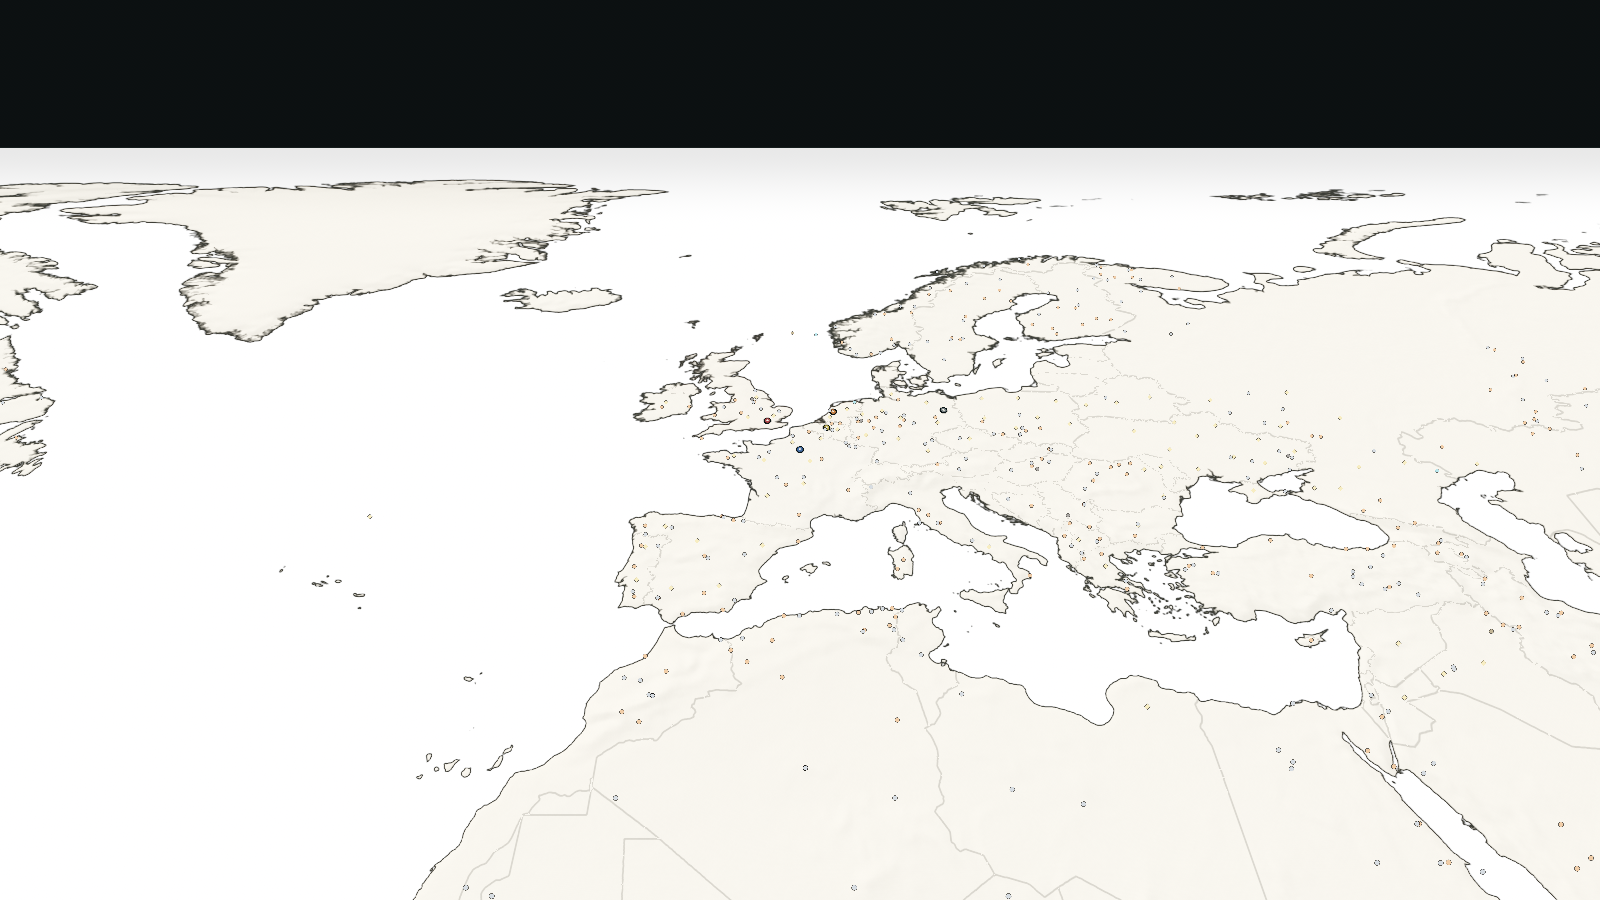
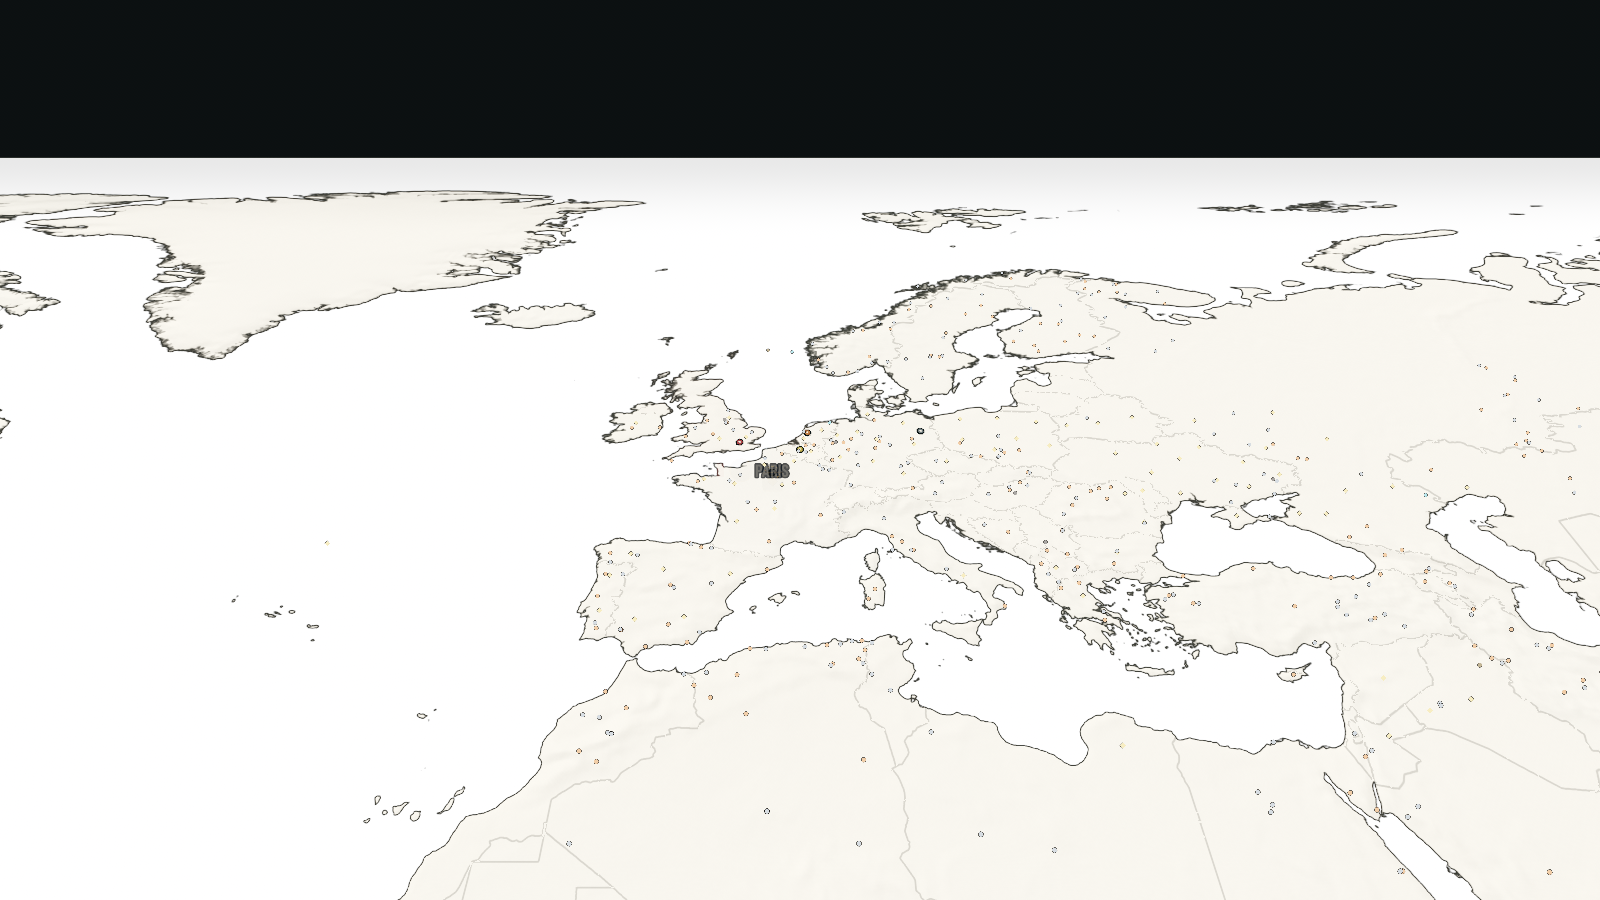
feat(map): recursos por proximidade e faixa legivel sob a cidade
A cidade passa a contar os depositos num raio de 1,5 u (~60 km) do centro (GeographyService.deposits_near), em vez do centroide do territorio: o cobre perto de Bruxelas agora entra. A faixa sob o nome ganhou pilula escura, icones maiores e circulo do raio no chao; clicar na cidade no modo recursos abre a aba de recursos. Legenda explica a faixa atualizada.

diff --git a/tools/build_resource_map.py b/tools/build_resource_map.py
@@ -97,4 +97,12 @@ white_icon("political.png", "map_mode_political.png")
 white_icon("resources.png", "map_mode_resources.png")
 marker(64, "dot").save(os.path.join(PLACES, "resource_dot.png"))
 marker(64, "diamond").save(os.path.join(PLACES, "resource_wheat.png"))
+
+# Pílula escura atrás da faixa de recursos sob o nome da cidade.
+pill = Image.new("RGBA", (128, 32), (0, 0, 0, 0))
+pd = ImageDraw.Draw(pill)
+pd.rounded_rectangle([1, 1, 127, 31], radius=14, fill=(10, 18, 18, 200),
+                     outline=(201, 162, 74, 110), width=2)
+pill.save(os.path.join(PLACES, "resource_pill.png"))
+
 build_points()

diff --git a/GAME_STATE.md b/GAME_STATE.md
@@ -82,7 +82,7 @@ Fontes: `DESIGN.md` (design system) e `docs/` (evidências). Este documento abso
      - **Modo "political" (atlas):** uma passada opaca em `atlas_political.gdshader` sobre **campos de distância com sinal** gerados de vetores Natural Earth 10m por `tools/build_atlas_layers.py` (`map/map_data/atlas/`): `region_sdf/region_color` (Europa lon −25..45, lat 33..72, 4096 px, ~1,9 km/texel) + `world_sdf` (mundo, 8192 px, ~4,9 km/texel) + `world_color` (4096 px, cor chapada por país). Canais SDF: R costa, G fronteira de país, B divisa admin-1 (1.862 províncias reais na região). Linhas em pixels de tela medidas ao longo do gradiente (espessura igual em qualquer orientação), anti-aliasing, salto do eixo medial descartado pelo gradiente. Terra = cor da nação × luminância do papel (`paper_flat.png`) × grão de papel; faixa escura junto às fronteiras; mar com faixa rasa e linhas de nível; vinheta polar fundindo com o fundo do ambiente. Nações não jogáveis em tons de pergaminho por `MAPCOLOR9`. Nomes das 5 nações gravados no chão (Cinzel, i18n, âncora no polo de inacessibilidade, `nations.json`). O overlay político fica oculto neste modo. Rótulos de cidade em tom claro com halo escuro e `no_depth_test`.
      - **Território dinâmico (mundo inteiro):** a cor e a fronteira de país NÃO são mais pré-desenhadas. Unidade de território = província admin-1 do Natural Earth com **id global** (4.596 no mundo): `region_province.png` (Europa, ~1,9 km/texel) e `world_province.png` (mundo, ~4,9 km/texel) = id por pixel; `provinces.json` = país, nação, cor estática, centroide e `area_global` (px 5000×2500). O shader roda o bloco dinâmico nas duas camadas (`dyn_block`) e escolhe pela região; divisas finas de província só na Europa. Os samplers de região e mundo têm o mesmo `repeat` (exigência do Godot para sampler como argumento de função). `map/territory_map.gd` (`TerritoryMap`) atribui cada província à **cidade mais próxima da mesma nação original**; o **dono = `city["nation"]` do status do Economy** (fonte única, atualizado em `CityWorld.refresh_modes`). Uma textura 64×72 (província → cor + índice do dono) é atualizada em runtime; o shader desenha fronteira grossa onde os donos das duas províncias vizinhas diferem (canal B do SDF), divisa fina onde são iguais, e o preenchimento segue o sinal sub-texel do campo. Hoje GBR, DEU, NED e BEL têm 1 cidade (todo o território); a FRA tem Paris e **Caiena**, que segura a Guiana Francesa e, por ser a cidade francesa mais próxima, também Martinica e Guadalupe. A câmera inicial centra na **mediana** das cidades (`CityWorld.framing_center_px`), para a cidade isolada não puxar o enquadramento para o Atlântico. Rótulo da nação: posição original se o território é o original; senão recalculado sobre as províncias possuídas; some se a nação perde tudo. Debug: `CityWorld.debug_set_city_nation(id, tag)` / `debug_clear_territory_overrides()`, `map_capture -- --territory=BEL-BRU:FRA` e `--focus=FRA-CAY` (evidência: `docs/map_visual/guiana_cayenne/` e `guiana_cayenne_ned/`). Nenhuma regra faz uma cidade mudar de dono (guerra/captura fora do escopo).
      - **Demais modos:** base cartográfica branca (terra marfim, mar branco, relevo suave e contorno dos continentes) via `paper_map.gdshader`, desenhada a partir dos SDFs do Natural Earth — sem imagem de satélite —, com overlay político sutil (`political_overlay.gdshader`, composição em alfa pré-multiplicado).
-     - **Camadas do mapa:** botões quadrados acima do minimapa com **político** e **recursos** (os modos população/economia/indústria continuam em `map_modes.gdshader` + `map_mode_layer.gd`, sem botão por enquanto). O mapa de recursos desenha **billboards nítidos** a partir de `map/map_data/atlas/resource_points.json` (gerado por `tools/build_resource_map.py`): círculos coloridos por depósito (carvão, cobre, gás, ferro, petróleo) e losangos de trigo; sob o nome de cada cidade aparece a faixa de recursos que o território dela oferece. A legenda no canto inferior esquerdo é um **filtro**: cada recurso tem caixa de seleção, cor, nome e contagem; abre com todos ligados, permite isolar 1, 2... e o botão "Todos" religa. O mapa e a faixa sob as cidades reagem na hora (`resource_filter_changed` → `CityWorld.set_resource_filter`).
+     - **Camadas do mapa:** botões quadrados acima do minimapa com **político** e **recursos** (os modos população/economia/indústria continuam em `map_modes.gdshader` + `map_mode_layer.gd`, sem botão por enquanto). O mapa de recursos desenha **billboards nítidos** a partir de `map/map_data/atlas/resource_points.json` (gerado por `tools/build_resource_map.py`): círculos coloridos por depósito (carvão, cobre, gás, ferro, petróleo) e losangos de trigo; sob o nome de cada cidade aparece uma **pílula escura** com os recursos **ao alcance** dela — depósitos num raio de 1,5 u (~60 km) mais o trigo do território — e um círculo fino no chão mostra esse raio. Clicar na cidade no modo recursos abre direto a aba de recursos do painel. A legenda no canto inferior esquerdo é um **filtro**: cada recurso tem caixa de seleção, cor, nome e contagem; abre com todos ligados, permite isolar 1, 2... e o botão "Todos" religa. O mapa e a faixa sob as cidades reagem na hora (`resource_filter_changed` → `CityWorld.set_resource_filter`).
   2. **Editor — `map/map.gd` + `map/map_mode.gd`:** mapa raster de províncias (SubViewport/Sprite2D sobre plano 3D), com SDF/JFA de fronteiras; usado por `editor/editor.tscn` e `tools/map_capture.gd`, **não** pelo jogo.
 - **Projeção/coordenadas:** equirretangular; conversão pixel↔lonlat em `build_natural_geography.py` (`lon=px/5000*360−180`, `lat=90−py/2500*180`). Mundo = plano de 1000×500 unidades (`PIXELS_PER_WORLD_UNIT=5`).
 - **Camadas raster (`map/map_data/`):**
